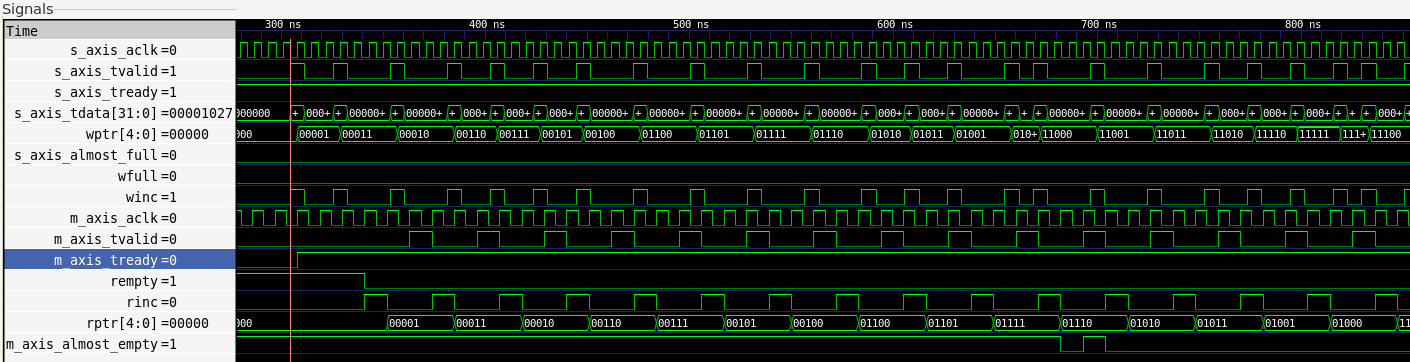
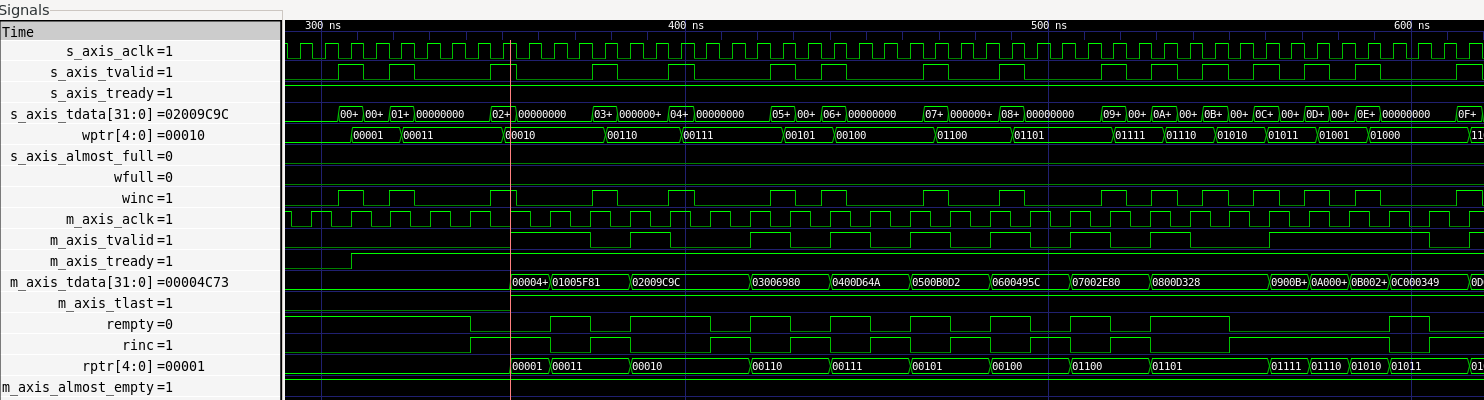
single cycle read path, new waveform and results added to README

diff --git a/README.md b/README.md
@@ -10,7 +10,7 @@ The write and read sides each keep an `ADDR_WIDTH + 1` bit pointer in binary (fo
 
 `almost_full` and `almost_empty` are computed from the synchronised pointers. They may lag by a couple of clocks, so they are treated as hints rather than exact counts.
 
-The AXI wrapper stores `{tkeep, tlast, tdata}` (37 bits by default) and sets `s_axis_tready = ~wfull`. The memory read is registered, so the output stage takes three read clocks per beat: request, capture, then hold until `m_axis_tready`. The payload stays stable while `TVALID` is high and `TREADY` is low. The output register holds one beat beyond the 16 in memory, so `rempty` can be 1 while `m_axis_tvalid` is still 1.
+The AXI wrapper stores `{tkeep, tlast, tdata}` (37 bits by default) and sets `s_axis_tready = ~wfull`. The memory's registered read output is used directly as the AXI output register. A new word is read whenever the FIFO has data and the output is empty or being accepted (`rinc = ~rempty & (~m_axis_tvalid | m_axis_tready)`), so the read side delivers one beat per clock. The read register only loads on `rinc`, so the payload stays stable while `TVALID` is high and `TREADY` is low. It holds one beat beyond the 16 in memory, so `rempty` can be 1 while `m_axis_tvalid` is still 1.
 
 | Parameter | Default | |
 |---|---|---|
@@ -56,13 +56,13 @@ The test runs single-beat packets, random-length packets with random backpressur
 The test fails if full, empty, both almost flags, backpressure on both sides, or partial `TKEEP` never happened.
 
 ![Streaming](docs/wave_streaming.png)
-*Every write accepted. The pointers count in Gray code, and the read side gives one beat per three clocks.*
-
+*Every write accepted. Each beat reaches the output a few read clocks later, and beats that arrive together leave back-to-back.*
+ 
 ![Backpressure](docs/wave_backpressure.png)
-*`m_axis_tready` low: the output holds, the FIFO stays full, and the input stalls with its data held.*
-
+*While `m_axis_tready` is low the output beat and `rptr` hold. After release, beats leave on consecutive read clocks.*
+ 
 ![Full](docs/wave_full.png)
-*A burst fills all 16 entries. After that, each read frees one write slot.*
+*A burst into an empty FIFO: 16 entries in memory plus one in the output register, then `wfull`. After that, each read frees one write slot.*
 
 RTL simulation does not model metastability or routing skew. It shows the pointer and flag logic works with unrelated clocks, but it cannot prove the crossing is safe on silicon.
 
@@ -97,9 +97,9 @@ The script sends one byte at a time, so this test checks the datapath and the cr
 
 | | |
 |---|---|
-| Logic | 145 LUT, 6 ALU, 2 SSRAM (163 / 20,736) |
-| Registers | 147 / 15,750 |
-| Fmax | 236 MHz (27 MHz domain), 187 MHz (13.5 MHz domain) |
+| Logic | 146 LUT, 6 ALU, 2 SSRAM (164 / 20,736) |
+| Registers | 138 / 15,750 |
+| Fmax | 203 MHz (27 MHz domain), 192 MHz (13.5 MHz domain) |
 | Setup / hold violations | 0 / 0 |
 
 Fmax is Gowin's post-route estimate. The board runs at 27 and 13.5 MHz.
@@ -121,7 +121,7 @@ The `PR1014` warning comes from the crystal sitting on pin 4, which isn't a glob
 
 ## Limitations
 
-- The read side manages one beat per three clocks. A prefetch or skid buffer would make it one per clock.
+- `m_axis_tready` feeds `rinc` combinationally, so the read pointer, empty flag and memory read enable all sit      behind the sink's ready. That is fine at 13.5 MHz. At higher clock rates a skid buffer would register it.
 - On hardware the clocks come from one crystal (fixed 2:1). Unrelated clocks are only tested in simulation.
 - Partial `TKEEP` is only tested in simulation.
 - No static CDC tool has been run.
